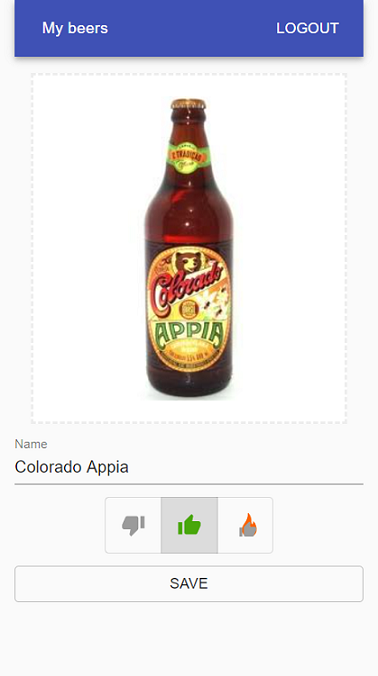
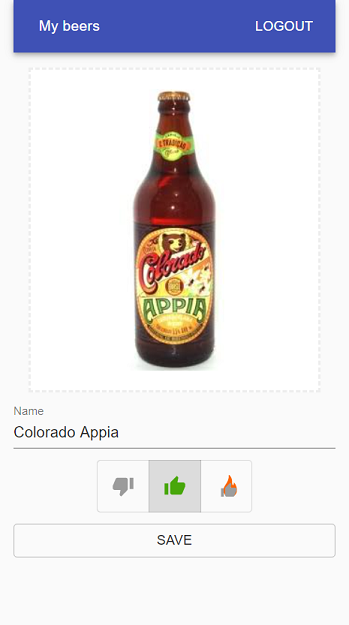
update docs

diff --git a/README.md b/README.md
@@ -20,9 +20,12 @@ A simple app to save the beers you have tasted. It was developed as an exercise 
 - Save the beers you tasted and give them a like, dislike or MEGALike
 - Sort trough your beers at any time to remember the ones you liked and the ones you disliked. Never wonder if you tasted a beer again
 
-![example image 1](docs_assets/screenshot_order_feature.png)
-![example image 2](docs_assets/screenshot_edit_beer.png)
+![example image 1](docs_assets/screenshot_order_feature.png)![example image 2](docs_assets/screenshot_edit_beer.png)
 
+<p align="middle">
+  <img src="docs_assets/screenshot_order_feature.png" width="49%" />
+  <img src="docs_assets/screenshot_edit_beer.png" width="49%" /> 
+</p>
 ## api
 
 To run the app locally, the following env variables need to be defined:
